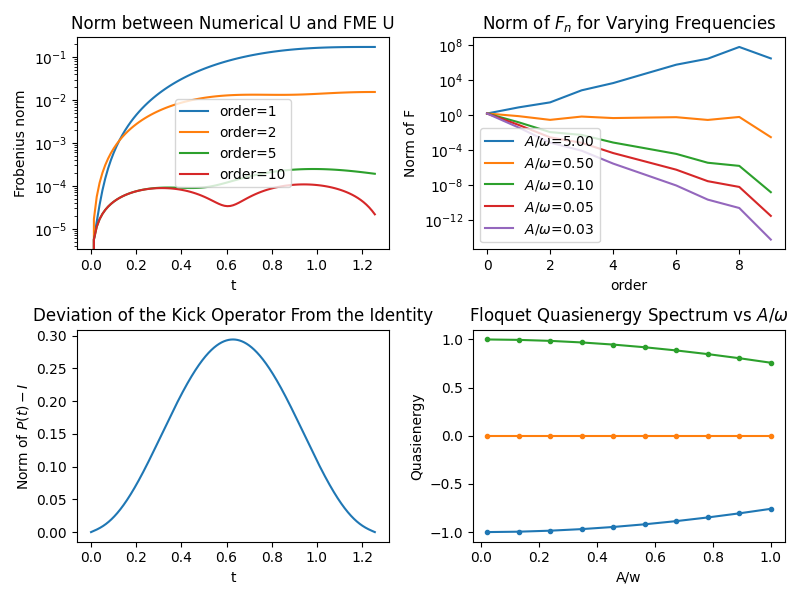
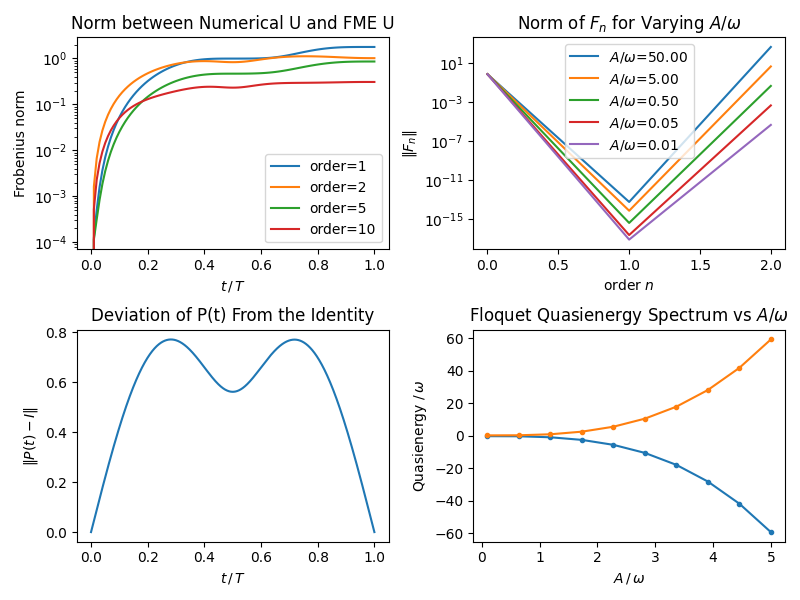
Added transition probability plot

diff --git a/Floquet-Magnus.py b/Floquet-Magnus.py
@@ -7,6 +7,7 @@ import matplotlib.pyplot as plt
 from matplotlib.widgets import Button, Slider
 import customtkinter as ctk
 from scipy.integrate import cumulative_trapezoid
+from time import process_time, time
 
 def main():
     ctk.set_appearance_mode("dark")  # "light" or "system"
@@ -28,11 +29,14 @@ class FloquetSystem:
     H_func: Callable          # H_func(t) -> matrix — omega/A baked in via closure
     omega: float
     order: int
+    periods: int
     N_t: int = 5000
     Lambda: object = None
     F: object = None
     U_exact: object = None
     U_FM: object = None
+    kick: object = None
+    Floquet: object = None
     
     @property
     def period(self):
@@ -40,24 +44,26 @@ class FloquetSystem:
     
     @property
     def t_grid(self):
-        return np.linspace(0, self.period, self.N_t)
+        return np.linspace(0, self.period*self.periods, self.N_t*self.periods)
     
-    def run(self, compute_propagators=True, aht=False):
+    def run(self, compute_propagators=True, aht=True):
         self.Lambda, self.F = self.floquet_magnus_expansion(aht)
         if compute_propagators:
             self.U_exact = self.exact_evolution()
-            self.U_FM = self.FM_evolution()
+            self.U_FM, self.kick, self.Floquet = self.FM_evolution()
 
     def floquet_magnus_expansion(self, aht):
+        omega = self.omega
         period = self.period
-        t_grid = self.t_grid
+        N_t = self.N_t
+        t_grid_exp = np.linspace(0, period, N_t)
         H_func = self.H_func
         order = self.order
 
         dim = H_func(0).shape[0]
 
         B = [float(bernoulli(n)/factorial(n)) for n in range(order)]
-        H = np.array([H_func(t) for t in t_grid])
+        H = np.array([H_func(t) for t in t_grid_exp])
         F = np.empty(order, dtype=object)
         G = np.empty(order, dtype=object)
         W = np.empty((order, order), dtype=object)
@@ -65,17 +71,20 @@ class FloquetSystem:
         Lambda = np.empty(order, dtype=object)
         
         # Initialize F[0], G[0], T[0, 0], W[n, 0], and Lambda[0]
-        F[0] = F[0] = np.trapezoid(H, t_grid, axis=0) / period
+        F[0] = F[0] = np.trapezoid(H, t_grid_exp, axis=0) / period
         G[0] = H.copy()
         T[0, 0] = F[0]
         W[0, 0] = H.copy()
         for i in range(1,order):
-            W[i, 0] = np.zeros((len(t_grid), dim, dim), dtype=complex)
+            W[i, 0] = np.zeros((len(t_grid_exp), dim, dim), dtype=complex)
         if aht:
-            Lambda[0] = np.zeros((len(t_grid), dim, dim), dtype=complex)
+            Lambda[0] = cumulative_trapezoid(H - F[0][np.newaxis, :, :], t_grid_exp, axis=0, initial=0)
         else:
-            Lambda[0] = cumulative_trapezoid(H - F[0][np.newaxis, :, :], t_grid, axis=0, initial=0)
-        
+            H_fft = np.fft.fft(H, axis=0) / N_t
+            ms = np.concatenate([np.arange(1, N_t//2 + 1), np.arange(-N_t//2 + 1, 0)])  # m = 1..N/2, -(N/2-1)..-1
+            Lambda_init = sum(H_fft[m] / (1j * m * omega) for m in ms)
+            Lambda[0] = cumulative_trapezoid(H - F[0][np.newaxis, :, :], t_grid_exp, axis=0, initial=0) + Lambda_init[np.newaxis, :, :]
+            
         #Iterate to compute higher order terms
         for n in range(2, order + 1):
             for j in range(1, n):
@@ -92,10 +101,10 @@ class FloquetSystem:
                     axis=0
                 )
             G[n-1] = sum([B[k] * ((-1j)**k) * (W[n-1, k] + ((-1)**(k+1)) * T[n-1, k]) for k in range(1, n)])
-            F[n-1] = np.trapezoid(G[n-1], t_grid, axis=0) / period
+            F[n-1] = np.trapezoid(G[n-1], t_grid_exp, axis=0) / period
             T[n-1, 0] = F[n-1]
             Lambda[n-1] = cumulative_trapezoid(
-                G[n-1] - F[n-1][np.newaxis, :, :], t_grid, axis=0, initial=0
+                G[n-1] - F[n-1][np.newaxis, :, :], t_grid_exp, axis=0, initial=0
             )
 
         return Lambda, F
@@ -109,24 +118,35 @@ class FloquetSystem:
             dt = t_grid[i] - t_grid[i-1]
             U = expm(-1j * H_func(t_grid[i]) * dt) @ U
             Us.append(U)
-        return Us
+        return np.array(Us)
 
     def FM_evolution(self):
         Lambda_sum = sum(self.Lambda[n] for n in range(self.order))
         F_sum = sum(self.F[n] for n in range(self.order))
-        Us = []
-        for idx in range(len(self.t_grid)):
-            kick_op = expm(-1j * Lambda_sum[idx])
-            floquet_op = expm(-1j * F_sum * self.t_grid[idx])
-            Us.append(kick_op @ floquet_op)
-        return Us
+        Lambda_tiled = np.tile(Lambda_sum, (self.periods, 1, 1))
+
+        kick_op = np.array([expm(-1j * Lambda_tiled[idx]) for idx in range(len(self.t_grid))])
+        floquet_op = np.array([expm(-1j * F_sum * t) for t in self.t_grid])
+        
+        U = kick_op @ floquet_op 
+        return U, kick_op, floquet_op
 
 
 
-def make_spin_drive(omega, A, s):
+def bloch_siegert_int(omega, A, s):
+    Sx, Sy, Sz = spin_matrices(s)
+    Sp = Sx + 1j*Sy
+    Sm = Sx - 1j*Sy
+    def H(t):
+        return (0.5*Sx 
+                + A*(Sp*np.exp(2j*omega*t) 
+                       + Sm*np.exp(-2j*omega*t)))
+    return H
+
+def bloch_siegert_lab(omega, A, s):
     Sx, Sy, Sz = spin_matrices(s)
     def H(t):
-        return Sz + A * np.cos(omega * t) * Sx
+        return 0.5*Sx + A*np.cos(omega*t)*Sz
     return H
 
 def evaluate_accuracy(U1, U2):
@@ -136,6 +156,9 @@ def evaluate_accuracy(U1, U2):
 
 def commutator(A, B):
     return A @ B - B @ A
+
+def expectation(psi, op):
+        return np.real(np.einsum('ti,ij,tj->t', psi.conj(), op, psi))
 
 def spin_matrices(s):
     d = int(2*s + 1)
@@ -153,81 +176,159 @@ def spin_matrices(s):
     
     return Sx, Sy, Sz
 
+def bloch_vector_error(U_approx, U_exact, psi_0, s):
+    Sx, Sy, Sz = spin_matrices(s)
+    psi_approx = U_approx @ psi_0
+    psi_exact  = U_exact  @ psi_0
+    
+    dx = expectation(psi_approx, Sx) - expectation(psi_exact, Sx)
+    dy = expectation(psi_approx, Sy) - expectation(psi_exact, Sy)
+    dz = expectation(psi_approx, Sz) - expectation(psi_exact, Sz)
+    
+    return np.sqrt(dx**2 + dy**2 + dz**2)
+
 def accuracy_plot(ax, sys):
-    eval_indices = list(range(0, len(sys.t_grid), 50))
-    if eval_indices[-1] != len(sys.t_grid) - 1:
-        eval_indices.append(len(sys.t_grid) - 1)
     orders_to_test = [1, 2, 5, 10]
     for o in orders_to_test:
-        # need a subsys with order=o to get correctly truncated U_FM
-        subsys = FloquetSystem(H_func=sys.H_func, omega=sys.omega, order=o, N_t=sys.N_t)
+        subsys = FloquetSystem(
+            H_func=bloch_siegert_int(omega=sys.omega, A=1, s=1/2),
+            omega=sys.omega, 
+            order=o, 
+            N_t=sys.N_t, 
+            periods=1)
         subsys.run()
-        fros = [evaluate_accuracy(subsys.U_FM[idx], sys.U_exact[idx])[0] 
+        
+        eval_indices = list(range(0, len(subsys.t_grid), 50))
+        if eval_indices[-1] != len(subsys.t_grid) - 1:
+            eval_indices.append(len(subsys.t_grid) - 1)
+        
+        fros = [evaluate_accuracy(subsys.U_FM[idx], subsys.U_exact[idx])[0] 
                 for idx in eval_indices]
-        ax.semilogy(sys.t_grid[list(eval_indices)], fros, label=f"order={o}")
-    ax.set_xlabel("t")
+        t_in_periods = subsys.t_grid[list(eval_indices)] / subsys.period
+        ax.semilogy(t_in_periods, fros, label=f"order={o}")
+    ax.set_xlabel(r"$t\,/\,T$")
     ax.set_ylabel("Frobenius norm")
     ax.set_title("Norm between Numerical U and FME U")
     ax.legend()
 
 def convergence_plot(ax, sys, A, s):
-    freq_to_test = [0.1, 1, 5, 10, 20]
+    freq_to_test = [0.01, 0.1, 1, 10, 100]
     for freq in freq_to_test:
         subsys = FloquetSystem(
-            H_func=make_spin_drive(omega=freq, A=A, s=s),
+            H_func=bloch_siegert_int(omega=freq, A=A, s=s),
             omega=freq,
-            order=sys.order
+            order=sys.order,
+            periods=1
         )
         subsys.run(compute_propagators=False)
         F_norms = [np.linalg.norm(subsys.F[n], 'fro') for n in range(sys.order)]
         ax.semilogy(list(range(sys.order)), F_norms, label=rf'$A/\omega$={A/freq:.2f}')
-    ax.set_xlabel("order")
-    ax.set_ylabel("Norm of F")
-    ax.set_title(r"Norm of $F_n$ for Varying Frequencies")
+    ax.set_xlabel("order $n$")
+    ax.set_ylabel(r"$\Vert F_n \Vert$")
+    ax.set_title(r"Norm of $F_n$ for Varying $A/\omega$")
     ax.legend()
 
 def micromotion_dev_plot(ax, sys):
     Lambda_sum = sum(sys.Lambda[n] for n in range(sys.order))
-    P = expm(-1j * Lambda_sum)
+    t_grid_one_period = np.linspace(0, sys.period, sys.N_t)
+    t_in_periods = t_grid_one_period / sys.period
+    P = np.array([expm(-1j * Lambda_sum[idx]) for idx in range(sys.N_t)])
     deviation = np.linalg.norm(P - np.eye(P.shape[1])[np.newaxis, :, :], axis=(-2, -1))
-    ax.plot(sys.t_grid, deviation)
-    ax.set_xlabel("t")
-    ax.set_ylabel(r"Norm of $P(t)-I$")
-    ax.set_title("Deviation of the Kick Operator From the Identity")
+    ax.plot(t_in_periods, deviation)
+    ax.set_xlabel(r"$t\,/\,T$")
+    ax.set_ylabel(r"$\Vert P(t) - I \Vert$")
+    ax.set_title("Deviation of P(t) From the Identity")
 
 def quasienergy_plot(ax, sys, A_max=5, n_amps=10, s=0.5):
     amp_to_test = np.linspace(0.1, A_max, n_amps)
     quasienergy_array = []
     for amp in amp_to_test:
         subsys = FloquetSystem(
-            H_func=make_spin_drive(omega=sys.omega, A=amp, s=s),
+            H_func=bloch_siegert_int(omega=sys.omega, A=amp, s=s),
             omega=sys.omega,
-            order=sys.order
+            order=sys.order,
+            periods=1
         )
         subsys.run(compute_propagators=False)
         F_sum = sum(subsys.F[n] for n in range(sys.order))
-        quasienergies = np.linalg.eigvalsh(F_sum)
+        quasienergies = np.linalg.eigvalsh(F_sum) / sys.omega   # rescale to units of omega
         quasienergy_array.append(quasienergies)
     quasienergy_array = np.array(quasienergy_array)
     for n in range(quasienergy_array.shape[1]):
         ax.plot(amp_to_test / sys.omega, quasienergy_array[:, n], 'o-', markersize=3)
-    ax.set_xlabel("A/w")
-    ax.set_ylabel("Quasienergy")
+    ax.set_xlabel(r"$A\,/\,\omega$")
+    ax.set_ylabel(r"Quasienergy $/ \,\omega$")
     ax.set_title(r"Floquet Quasienergy Spectrum vs $A/\omega$")
 
 
-
 if __name__ == "__main__":
-    #Parameters
-    sys = FloquetSystem(H_func=make_spin_drive(omega=5, A=0.5, s=1), omega=5, order=10)
-    sys.run()
+    start_ptime = process_time()
+    start_rtime = time()
+
+    #Runs the system twice to get all the operators
+    omega = 1
+    sys = FloquetSystem(H_func=bloch_siegert_lab(omega=omega, A=0.8, s=0.5), omega=omega, order=3, periods=10)
+    sys.run(aht=True)
+    aht_floq = sys.Floquet.copy()
+    aht_kick = sys.kick.copy()
+    sys.run(aht=False)
+    floq_floq = sys.Floquet
+    floq_kick = sys.kick
 
 
-    #Plot
+    # LOOKS DIFFERENT BECAUSE THEY PLOT TRANSITION PROB AND I PLOT EXPECTATION VALUE
+    #Plots full motion for each operator
+    psi_0 = [1,0]
+    Us = [aht_floq, aht_kick@aht_floq, floq_kick[0]@floq_floq@floq_kick[0].conj().T, floq_kick@floq_floq@floq_kick[0].conj().T, sys.U_exact]
+    labels = [r"AHT: $e^{-iF_{AHT}t}$", r"AHT + kick: $e^{-i\Lambda(t)}e^{-iF_{AHT}t}$", r"Floquet: $e^{-iF_{FM}t}$",r"Full FM: $e^{-i\Lambda(t)}e^{-iF_{FM}t}$","Exact"]
+    fig, axs = plt.subplots(2)
+    Sx, Sy, Sz = spin_matrices(0.5)
+    for i, (U, label) in enumerate(zip(Us, labels)):
+        psi_t = U @ psi_0
+        exp_Sz = expectation(psi_t, Sz)
+        axs[0].plot(sys.t_grid/sys.period, exp_Sz, label=label)
+        axs[0].set_title("Method Comparison")
+        axs[0].set_xlabel("t/T")
+        axs[0].set_ylabel(r"$<S_z(t)>$")
+    axs[0].legend()
+    error_aht = bloch_vector_error(Us[0], Us[4], psi_0, s=1/2)
+    error_aht_kick = bloch_vector_error(Us[1], Us[4], psi_0, s=1/2)
+    axs[1].plot(sys.t_grid/sys.period, error_aht, label=r"AHT: $e^{-iF_{AHT}t}$")
+    axs[1].plot(sys.t_grid/sys.period, error_aht_kick, label=r"AHT + kick: $e^{-i\Lambda(t)}e^{-iF_{AHT}t}$")
+    axs[1].set_title("Bloch Vector Error")
+    axs[1].set_xlabel("t/T")
+    axs[1].set_ylabel(r"$|\Delta\vec{r}|$")
+    axs[1].legend()
+    fig.tight_layout()
+    fig.savefig('plots/Comparison', dpi=300)
+
+    fig, axs = plt.subplots(1)
+    psi_0 = [1,0]
+    Us = [aht_floq, aht_kick@aht_floq, floq_kick[0]@floq_floq@floq_kick[0].conj().T, floq_kick@floq_floq@floq_kick[0].conj().T, sys.U_exact]
+    labels = [r"AHT: $e^{-iF_{AHT}t}$", r"AHT + kick: $e^{-i\Lambda(t)}e^{-iF_{AHT}t}$", r"Floquet: $e^{-iF_{FM}t}$",r"Full FM: $e^{-i\Lambda(t)}e^{-iF_{FM}t}$","Exact"]
+    for i, (U, label) in enumerate(zip(Us, labels)):
+        psi_t = U @ psi_0          
+        P = np.abs(psi_t[:, 1])**2
+        axs.plot(sys.t_grid/sys.period, P, label=label)
+    axs.set_title("Method Comparison")
+    axs.set_xlabel("t/T")
+    axs.set_ylabel("Transition Probability")
+    axs.legend()
+    fig.tight_layout()
+    fig.savefig('plots/Transition_Probability')
+    
+
+    #Plots various qualities of the system
     fig, axs = plt.subplots(2,2, figsize=(8,6))
     accuracy_plot(axs[0,0], sys)
     convergence_plot(axs[0,1], sys, 0.5, 1)
     micromotion_dev_plot(axs[1,0], sys)
-    quasienergy_plot(axs[1,1], sys, s=1)
+    quasienergy_plot(axs[1,1], sys, s=0.5)
     fig.tight_layout()
     plt.savefig('plots/Floquet-Magnus_Plots')
+
+    #Times the computation
+    end_ptime = process_time()
+    end_rtime = time()
+    print(f'Program processed in {(end_ptime-start_ptime)*1000} ms')
+    print(f'Took {end_rtime-start_rtime:.3f} seconds')